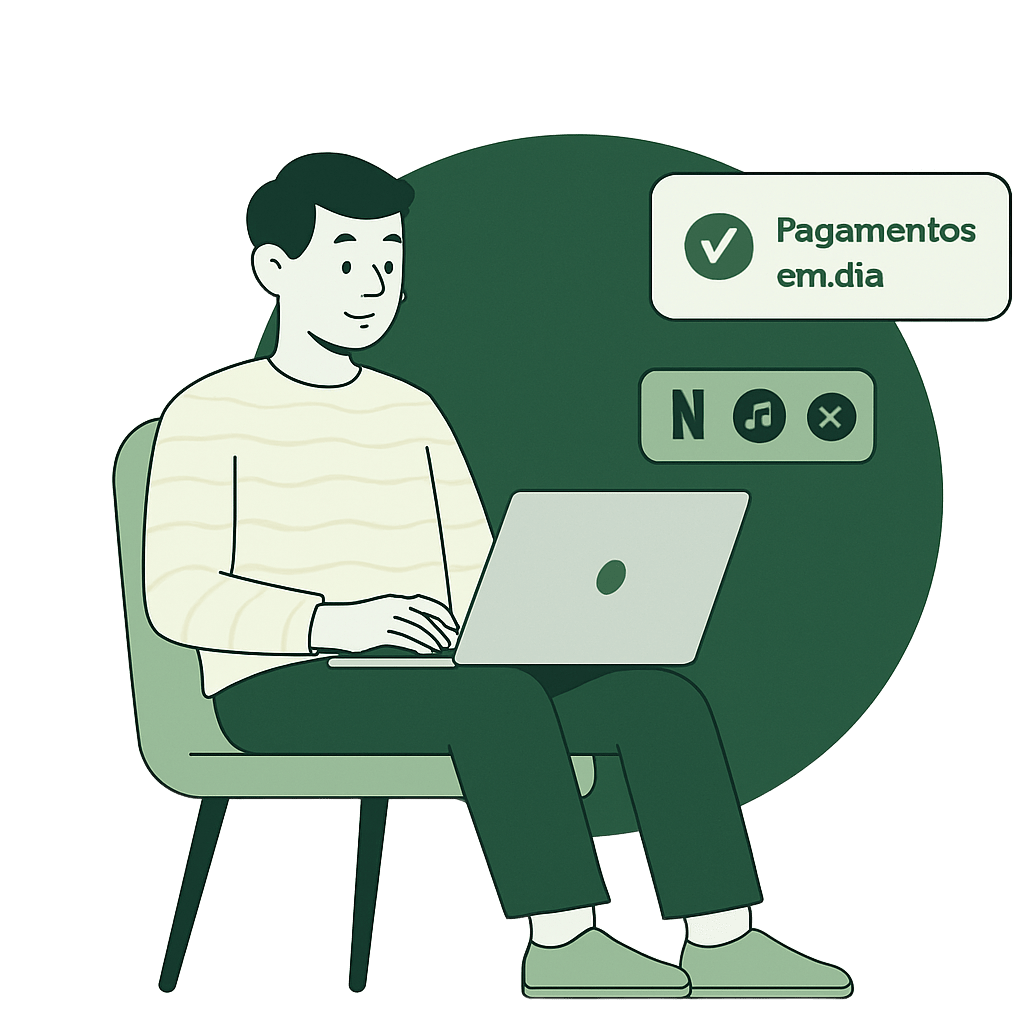
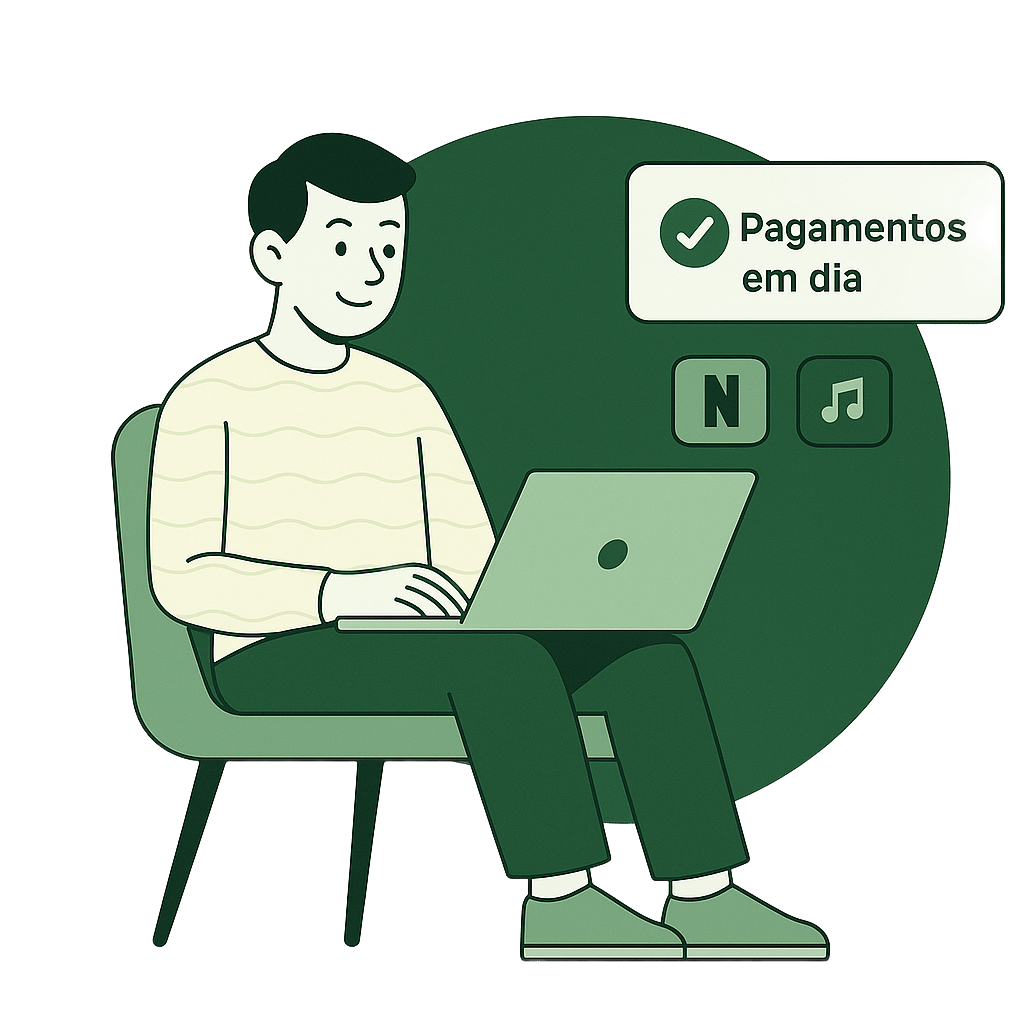
Created sing-up page

diff --git a/src/app/pages/sing-up/sing-up.component.scss b/src/app/pages/sing-up/sing-up.component.scss
@@ -14,13 +14,12 @@ main{
         flex-direction: column;
         align-items: center;
 
-.container-centralized{
-    display: flex;
-    flex-direction: column;
-    align-items: center;
-    justify-content: center;
-}
-
+        .container-centralized{
+            display: flex;
+            flex-direction: column;
+            align-items: center;
+            justify-content: center;
+        }
     }
 
     .logo-container{
@@ -30,9 +29,12 @@ main{
     .main-section{
         flex: 1;
         background-color: variables.$background;
+        display: flex;
+        justify-content: center;
 
         img{
-           width: 50rem;
+           width: 42rem;
+           margin-bottom: 5rem;
         }
     }
 
@@ -52,12 +54,10 @@ main{
             justify-content: center;
             height: 100%;
             width: 100%;
-            gap: 10px
         }
         .text-container{
             font-size: 1.8rem;
             font-weight: 500;
-            margin-bottom: 1rem;
             max-width: 15rem;
             text-align: center;
         }
@@ -65,7 +65,6 @@ main{
         .form-container {
             display: flex;
             flex-direction: column;
-            gap: 1rem;
 
             form{
                 display: flex;
@@ -90,11 +89,19 @@ main{
                 }
             }
 
-            .password-container{
+            .name-container{
+                gap: 0.2rem;
+            }
 
-                display: flex;
-                flex-direction: column;
-                margin-bottom: 1rem;
+            .email-container{
+                gap: 0.2rem;
+            }
+
+            .confirm-password-container{
+                gap: 0.2rem;
+            }
+
+            .password-container{
                 gap: 0.2rem;
 
                 .forgot-password{
@@ -103,22 +110,14 @@ main{
                     cursor: pointer;
                     text-align: end;
                 }
-
             }
-
-            .email-container{
-                display: flex;
-                flex-direction: column;
-                gap: 0.2rem;
-            }
-            
-
         }
+
         button{
             cursor: pointer;
             margin: 0.6rem 0;
         
-            &.login-button{
+            &.register-button{
                 background-color: variables.$secondary-color;
                 color: white;
                 padding: 0.7rem 1rem;
@@ -126,32 +125,12 @@ main{
                 width: 20rem;
                 border: none;
             }
-
-            &.register-button{
-                color: variables.$secondary-color;
-                background-color: white;
-                padding: 0.7rem 1rem;
-                border-radius: 0.4rem;
-                width: 20rem;
-                    border: 1px solid variables.$secondary-color;
-            }
         }
-        .divider{
-            color: rgba(7, 7, 7, 0.911);
-            font-size: 0.8rem;
-            font-weight: 400;
-            display: flex;
-            align-items: center;
-            gap: 0.8rem;
-            text-transform: uppercase;
-            width: 100%;
 
-            div{
-                width: 100%;
-                height: 1px;
-                background-color: rgba(7, 7, 7, 0.911);
-                
-            }
+        .login-link{
+            text-decoration: underline;
+            color: variables.$secondary-color;
+            cursor: pointer;
         }
     }
 }

diff --git a/src/app/pages/sing-up/sing-up.component.html b/src/app/pages/sing-up/sing-up.component.html
@@ -1,0 +1,49 @@
+<main>
+    <section class="form-section">
+
+        <div class="container-centralized">
+            <div class="logo-container flex justify-center items-center">
+                <img src="assets/images/logo.png" alt="Imagem que vai ficar no logo">
+            </div>
+
+            <div class="text-container">
+                <p>Crie sua conta na PayLoop</p>
+            </div>
+
+            <div class="form-container">
+                <form [formGroup]="singUpForm">
+                    <div class="flex flex-col name-container">
+                        <label for="name">Nome</label>
+                        <input type="text" placeholder="Digite seu nome" formControlName="name">
+                    </div>
+
+                    <div class="flex flex-col email-container">
+                        <label for="email">Email</label>
+                        <input type="text" placeholder="Digite seu email" formControlName="email">
+                    </div>
+
+                    <div class="flex flex-col password-container">
+                        <label for="password">Senha</label>
+                        <input type="password" placeholder="Digite sua senha" formControlName="password">
+                    </div>
+
+                    <div class="flex flex-col confirm-password-container">
+                        <label for="confirmPassword">Confirmar senha</label>
+                        <input type="password" placeholder="Digite sua senha" formControlName="confirmPassword">
+                    </div>
+
+                    <div class="button-container gap-1 flex flex-col items-center">
+                        <button class="register-button" (click)="onSubmit()">Cadastrar</button>
+                        <small>Já possui uma conta? <span class="login-link"><a routerLink="/login">Faça login</a></span></small>
+                    </div>
+                   
+                </form>
+            </div>
+        </div>
+    </section>
+
+
+    <section class="main-section">
+        <img src="assets/images/background-sing-up.png" alt="Imagem que vai ficar no background">
+    </section>
+</main>

diff --git a/src/app/pages/login/login.component.ts b/src/app/pages/login/login.component.ts
@@ -2,10 +2,12 @@ import { Component } from '@angular/core';
 import { FormControl, FormGroup, ReactiveFormsModule, Validators } from '@angular/forms';
 import { LoginService } from '../../services/login.service';
 import { ToastrService } from 'ngx-toastr';
+import { RouterLink } from '@angular/router';
+
 
 @Component({
   selector: 'app-login',
-  imports: [ReactiveFormsModule],
+  imports: [ReactiveFormsModule, RouterLink],
   providers: [LoginService],
   templateUrl: './login.component.html',
   styleUrl: './login.component.scss'
@@ -13,22 +15,21 @@ import { ToastrService } from 'ngx-toastr';
 export class LoginComponent {
     
 
-    loginForm!: FormGroup;
+  loginForm!: FormGroup;
 
-    constructor(private loginService: LoginService, private toastr: ToastrService){
-      this.loginForm = new FormGroup({
-        email: new FormControl('', [Validators.required, Validators.email]),
-        password: new FormControl('', [Validators.required, Validators.minLength(8)])
-      })
-    }
+  constructor(private loginService: LoginService, private toastr: ToastrService){
+    this.loginForm = new FormGroup({
+      email: new FormControl('', [Validators.required, Validators.email]),
+      password: new FormControl('', [Validators.required, Validators.minLength(8)])
+    })
+  }
 
-    onSubmit(){
-      if(this.loginForm.valid){
-          this.loginService.Login(this.loginForm.value.email, this.loginForm.value.password).subscribe({
-            next: () => this.toastr.success("Login realizado com sucesso"),
-            error: () => this.toastr.error("Erro ao realizar login")
-          })
-      }
+  onSubmit(){
+    if(this.loginForm.valid){
+        this.loginService.Login(this.loginForm.value.email, this.loginForm.value.password).subscribe({
+          next: () => this.toastr.success("Login realizado com sucesso"),
+          error: () => this.toastr.error("Erro ao realizar login")})
     }
+  }
 }
  

diff --git a/src/app/pages/login/login.component.html b/src/app/pages/login/login.component.html
@@ -13,12 +13,14 @@
             <div class="form-container">
                 <form [formGroup]="loginForm">
 
-                    <label for="email">Email</label>
-                    <input type="text" placeholder="Digite seu email" formControlName="email">
-
-                    <label for="password">Senha</label>
+                    <div class="email-container">
+                        <label for="email">Email</label>
+                        <input type="text" placeholder="Digite seu email" formControlName="email">
+                    </div>
+                    
 
                     <div class="password-container">
+                        <label for="password">Senha</label>
                         <input type="password" placeholder="Digite sua senha" formControlName="password">
                         <span class="forgot-password">Esqueceu sua senha?</span>
                     </div>
@@ -27,14 +29,14 @@
             </div>
 
             <div class="button-container gap-1 flex flex-col items-center">
-                <button class="login-button" (click)="onSubmit()">Login</button>
+                <button class="login-button" (click)="onSubmit()">Entrar</button>
                 <div class="divider">
                     <div></div>
                     <span> ou </span>
                     <div></div>
                 </div>
                 
-                <button class="register-button">Cadastrar</button>
+                <button class="register-button"> <a routerLink="/cadastro">Cadastrar</a></button>
             </div>
         </div>
     </section>

diff --git a/src/app/pages/sing-up/sing-up.component.ts b/src/app/pages/sing-up/sing-up.component.ts
@@ -1,0 +1,36 @@
+import { Component } from '@angular/core';
+import { ReactiveFormsModule, Validators, FormGroup, FormControl, AbstractControl, ValidationErrors} from '@angular/forms';
+import { RouterLink } from '@angular/router';
+
+@Component({
+  selector: 'app-sing-up',
+  imports: [ReactiveFormsModule, RouterLink],
+  templateUrl: './sing-up.component.html',
+  styleUrl: './sing-up.component.scss'
+})
+export class SingUpComponent {
+
+  singUpForm !: FormGroup
+
+  constructor(){
+      this.singUpForm = new FormGroup({
+      name: new FormControl('', [Validators.required]),
+      email: new FormControl('', [Validators.required, Validators.email]),
+      password: new FormControl('', [Validators.required, Validators.minLength(8)]),
+      confirmPassword: new FormControl('', [Validators.required])},
+      { validators: this.passwordMatchValidator });
+  }
+
+  passwordMatchValidator(control: AbstractControl): ValidationErrors | null {
+    const password = control.get('password')?.value;
+    const confirmPassword = control.get('confirmPassword')?.value;
+    if (password !== confirmPassword) {
+        return { passwordMismatch: true };
+    }
+    return null;
+}
+
+  onSubmit(){
+    console.log(this.singUpForm.value)
+  }
+}

diff --git a/src/app/pages/sing-up/sing-up.component.spec.ts b/src/app/pages/sing-up/sing-up.component.spec.ts
@@ -1,0 +1,23 @@
+import { ComponentFixture, TestBed } from '@angular/core/testing';
+
+import { SingUpComponent } from './sing-up.component';
+
+describe('SingUpComponent', () => {
+  let component: SingUpComponent;
+  let fixture: ComponentFixture<SingUpComponent>;
+
+  beforeEach(async () => {
+    await TestBed.configureTestingModule({
+      imports: [SingUpComponent]
+    })
+    .compileComponents();
+
+    fixture = TestBed.createComponent(SingUpComponent);
+    component = fixture.componentInstance;
+    fixture.detectChanges();
+  });
+
+  it('should create', () => {
+    expect(component).toBeTruthy();
+  });
+});

diff --git a/src/app/app.component.ts b/src/app/app.component.ts
@@ -1,9 +1,10 @@
 import { Component } from '@angular/core';
 import { RouterOutlet } from '@angular/router';
+import { RouterLink } from '@angular/router';
 
 @Component({
   selector: 'app-root',
-  imports: [RouterOutlet],
+  imports: [RouterOutlet, RouterLink],
   templateUrl: './app.component.html',
   styleUrl: './app.component.scss'
 })

diff --git a/src/app/app.routes.ts b/src/app/app.routes.ts
@@ -17,4 +17,8 @@ export const routes: Routes = [
         path: 'home',
         component: HomeComponent
     },
+    {
+        path: 'cadastro',
+        loadComponent: () => import('./pages/sing-up/sing-up.component').then(c => c.SingUpComponent)
+    }
 ];
